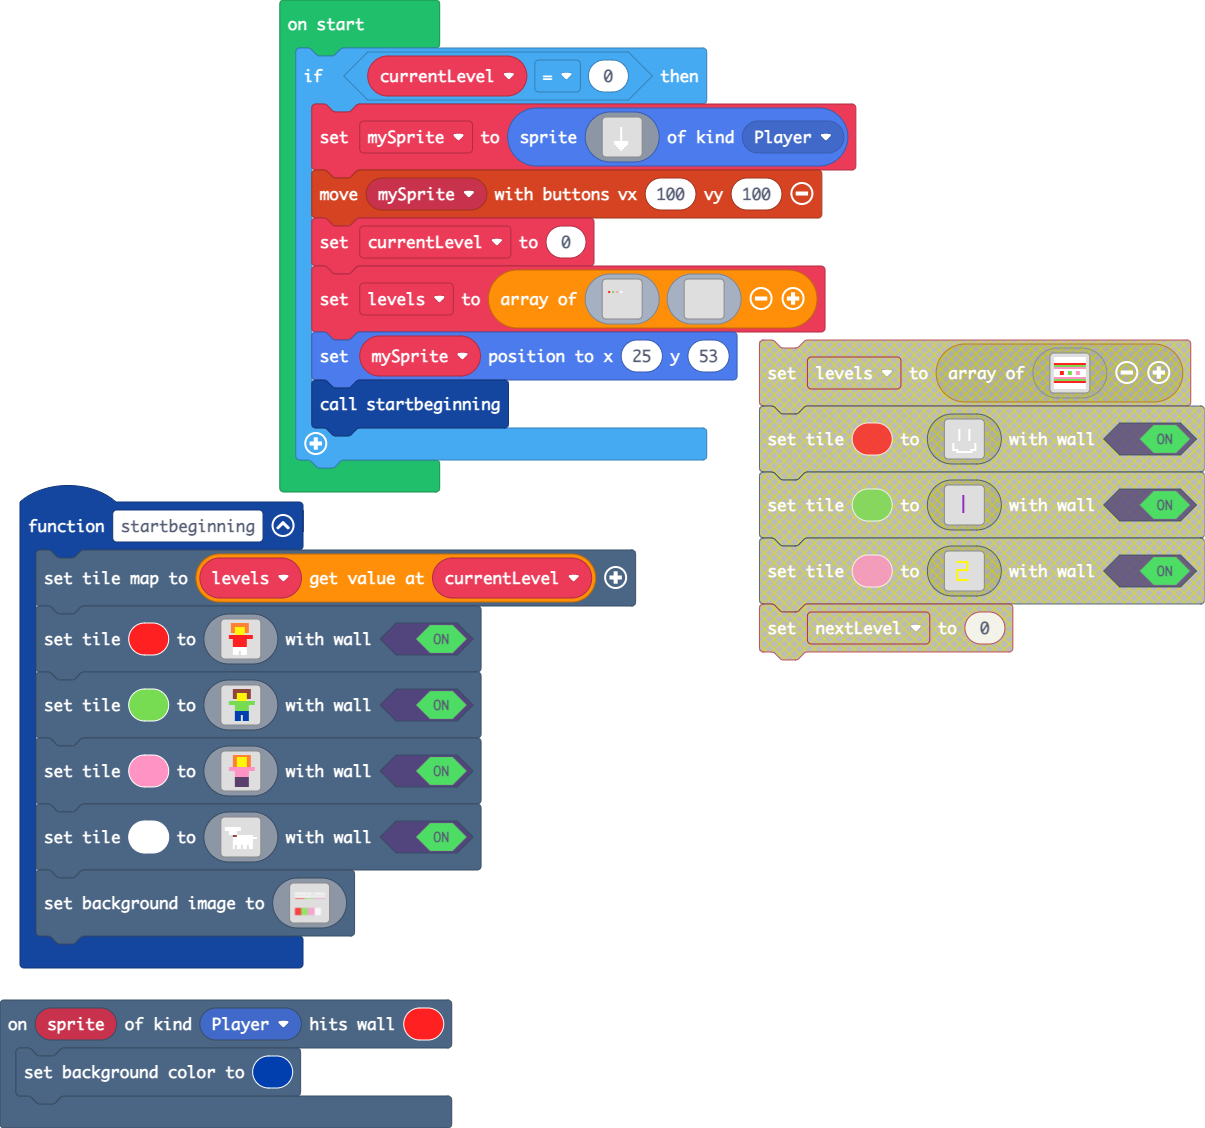
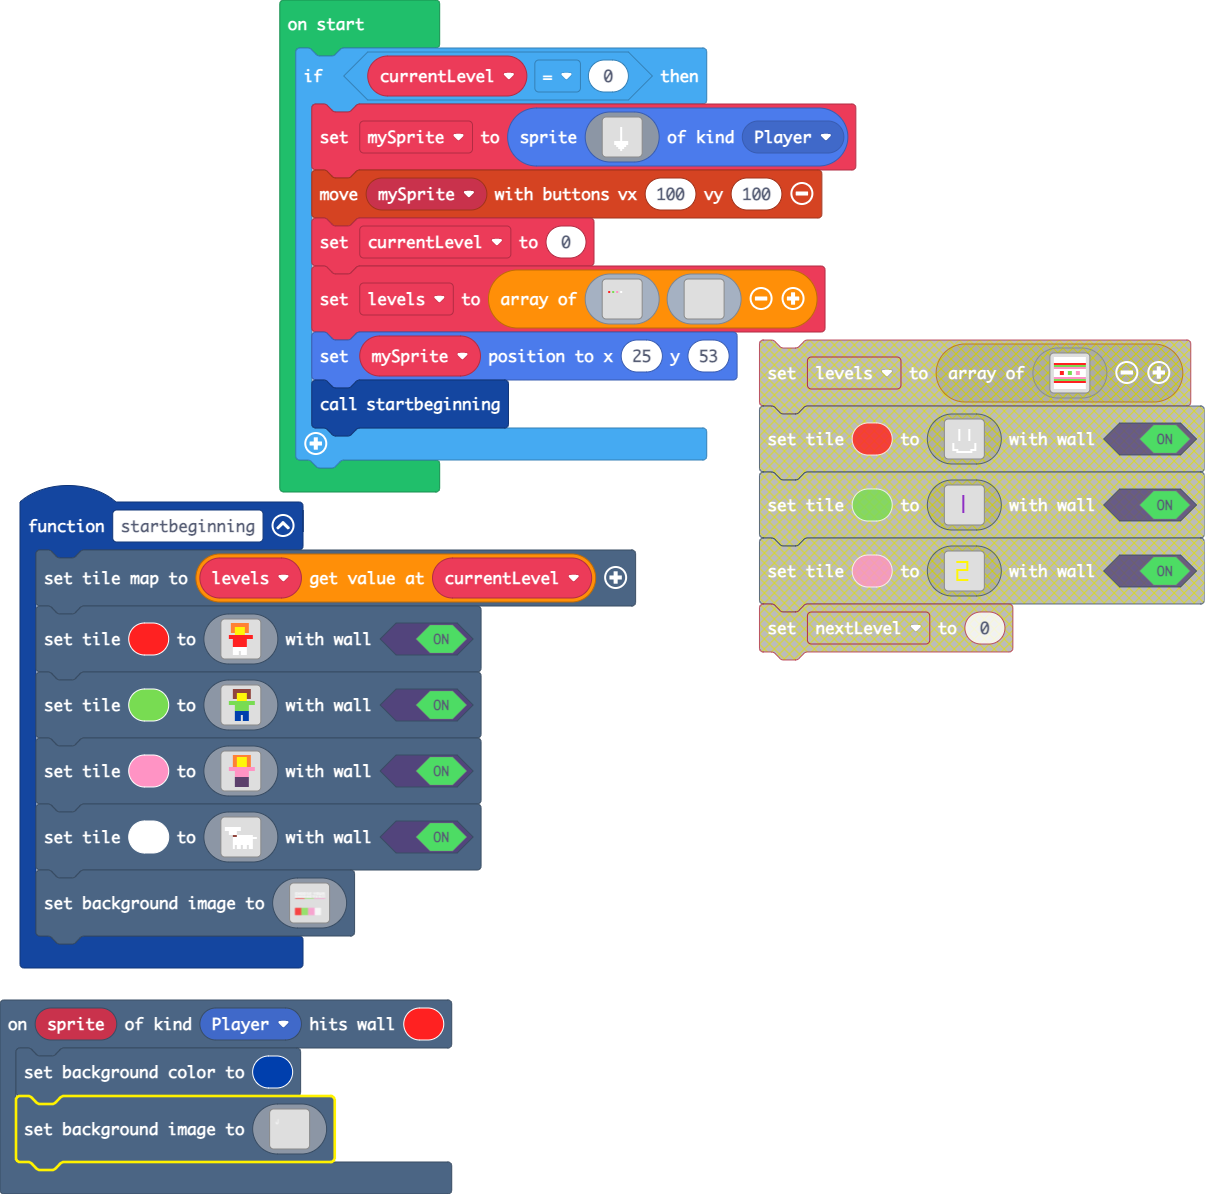
Update main.blocks, main.ts

Changed region(s): [[0.0, 0.0, 1.0, 0.9929]]

diff --git a/main.ts b/main.ts
@@ -197,6 +197,128 @@ function startbeginning () {
 }
 scene.onHitTile(SpriteKind.Player, 2, function (sprite) {
     scene.setBackgroundColor(8)
+    scene.setBackgroundImage(img`
+        ................................................................................................................................................................
+        ................................................................................................................................................................
+        ................................................................................................................................................................
+        ................................................................................................................................................................
+        ................................................................................................................................................................
+        ................................................................................................................................................................
+        ................................................................................................................................................................
+        ................................................................................................................................................................
+        ................................................................................................................................................................
+        ................................................................................................................................................................
+        ................................................................................................................................................................
+        .....................111........................................................................................................................................
+        .....................111........................................................................................................................................
+        .....................111........................................................................................................................................
+        .....................111........................................................................................................................................
+        .....................111........................................................................................................................................
+        .....................111........................................................................................................................................
+        .....................111........................................................................................................................................
+        .....................111........................................................................................................................................
+        .....................111........................................................................................................................................
+        .....................111........................................................................................................................................
+        .....................111........................................................................................................................................
+        .....................111........................................................................................................................................
+        .....................111........................................................................................................................................
+        ...........111.......111........................................................................................................................................
+        ...........111.......111........................................................................................................................................
+        ...........111......1111........................................................................................................................................
+        ...........111......1111........................................................................................................................................
+        ...........111......1111........................................................................................................................................
+        ...........1111.....111.........................................................................................................................................
+        ...........1111....1111.........................................................................................................................................
+        ...........11111...1111.........................................................................................................................................
+        ............1111111111..........................................................................................................................................
+        ............1111111111..........................................................................................................................................
+        ..............1111111...........................................................................................................................................
+        ...............111..............................................................................................................................................
+        ................................................................................................................................................................
+        ................................................................................................................................................................
+        ................................................................................................................................................................
+        ................................................................................................................................................................
+        ................................................................................................................................................................
+        ................................................................................................................................................................
+        ................................................................................................................................................................
+        ................................................................................................................................................................
+        ................................................................................................................................................................
+        ................................................................................................................................................................
+        ................................................................................................................................................................
+        ................................................................................................................................................................
+        ................................................................................................................................................................
+        ................................................................................................................................................................
+        ................................................................................................................................................................
+        ................................................................................................................................................................
+        ................................................................................................................................................................
+        ................................................................................................................................................................
+        ................................................................................................................................................................
+        ................................................................................................................................................................
+        ................................................................................................................................................................
+        ................................................................................................................................................................
+        ................................................................................................................................................................
+        ................................................................................................................................................................
+        ................................................................................................................................................................
+        ................................................................................................................................................................
+        ................................................................................................................................................................
+        ................................................................................................................................................................
+        ................................................................................................................................................................
+        ................................................................................................................................................................
+        ................................................................................................................................................................
+        ................................................................................................................................................................
+        ................................................................................................................................................................
+        ................................................................................................................................................................
+        ................................................................................................................................................................
+        ................................................................................................................................................................
+        ................................................................................................................................................................
+        ................................................................................................................................................................
+        ................................................................................................................................................................
+        ................................................................................................................................................................
+        ................................................................................................................................................................
+        ................................................................................................................................................................
+        ................................................................................................................................................................
+        ................................................................................................................................................................
+        ................................................................................................................................................................
+        ................................................................................................................................................................
+        ................................................................................................................................................................
+        ................................................................................................................................................................
+        ................................................................................................................................................................
+        ................................................................................................................................................................
+        ................................................................................................................................................................
+        ................................................................................................................................................................
+        ................................................................................................................................................................
+        ................................................................................................................................................................
+        ................................................................................................................................................................
+        ................................................................................................................................................................
+        ................................................................................................................................................................
+        ................................................................................................................................................................
+        ................................................................................................................................................................
+        ................................................................................................................................................................
+        ................................................................................................................................................................
+        ................................................................................................................................................................
+        ................................................................................................................................................................
+        ................................................................................................................................................................
+        ................................................................................................................................................................
+        ................................................................................................................................................................
+        ................................................................................................................................................................
+        ................................................................................................................................................................
+        ................................................................................................................................................................
+        ................................................................................................................................................................
+        ................................................................................................................................................................
+        ................................................................................................................................................................
+        ................................................................................................................................................................
+        ................................................................................................................................................................
+        ................................................................................................................................................................
+        ................................................................................................................................................................
+        ................................................................................................................................................................
+        ................................................................................................................................................................
+        ................................................................................................................................................................
+        ................................................................................................................................................................
+        ................................................................................................................................................................
+        ................................................................................................................................................................
+        ................................................................................................................................................................
+        ................................................................................................................................................................
+        `)
 })
 let levels: Image[] = []
 let mySprite: Sprite = null
